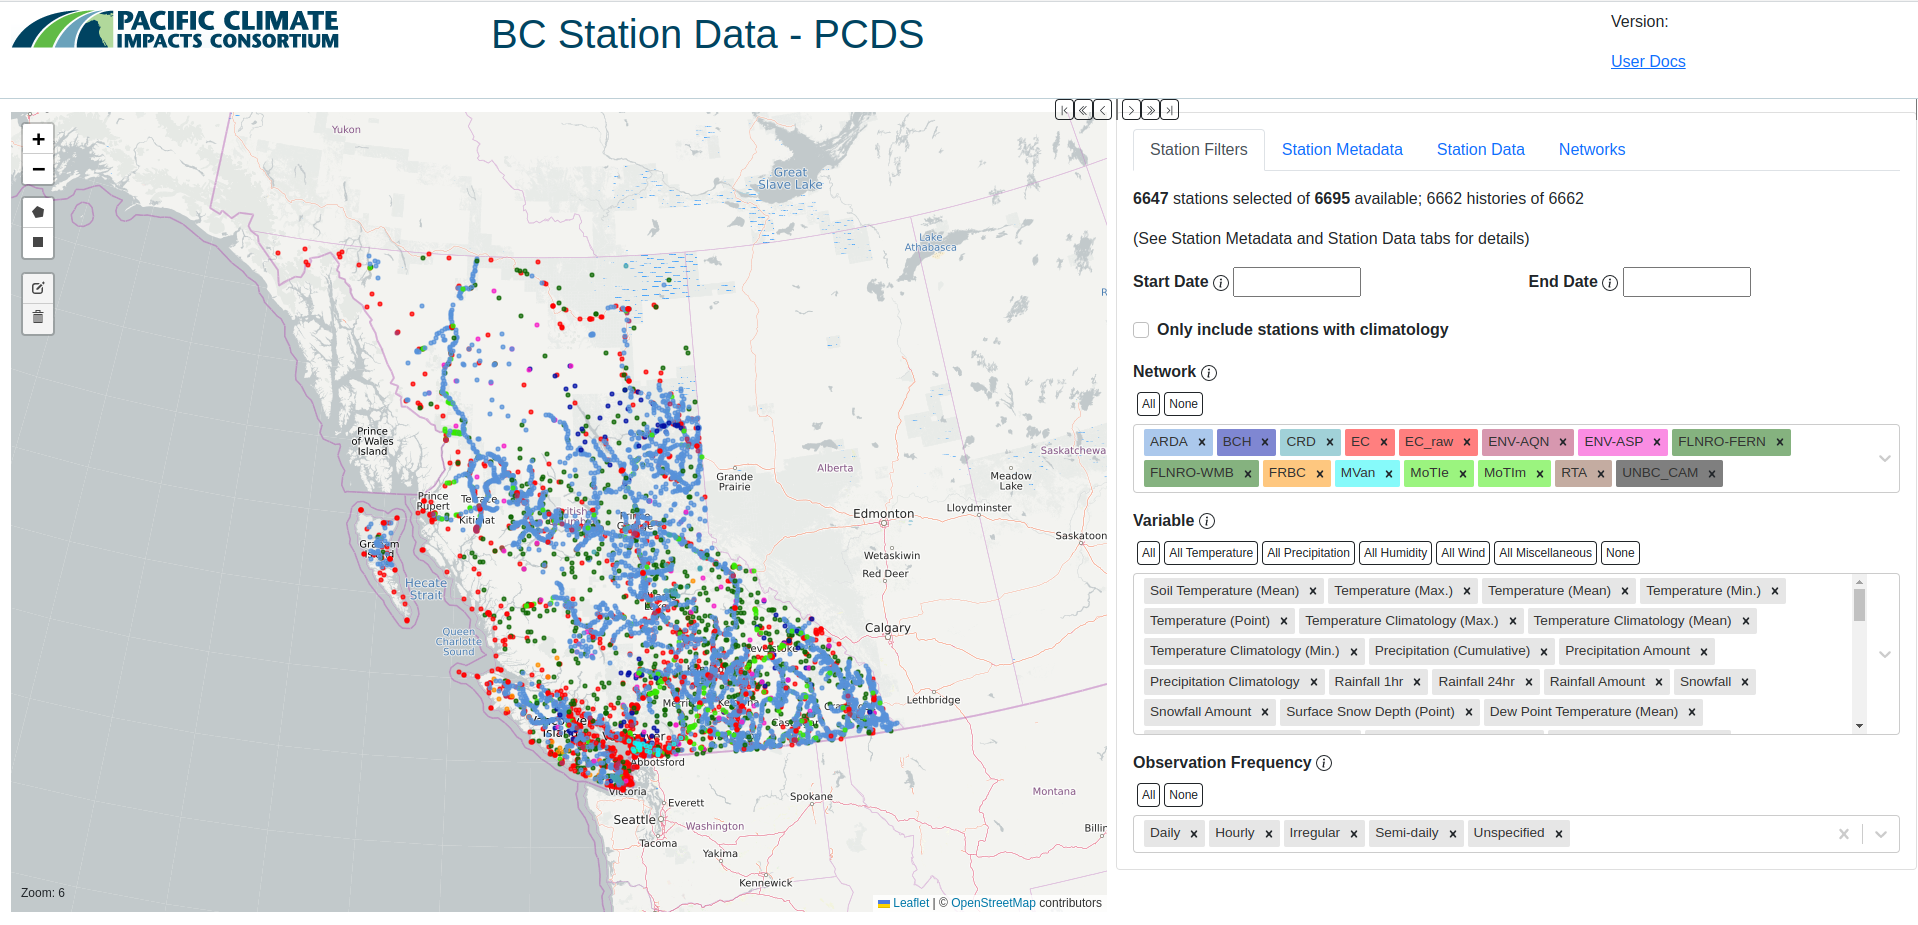
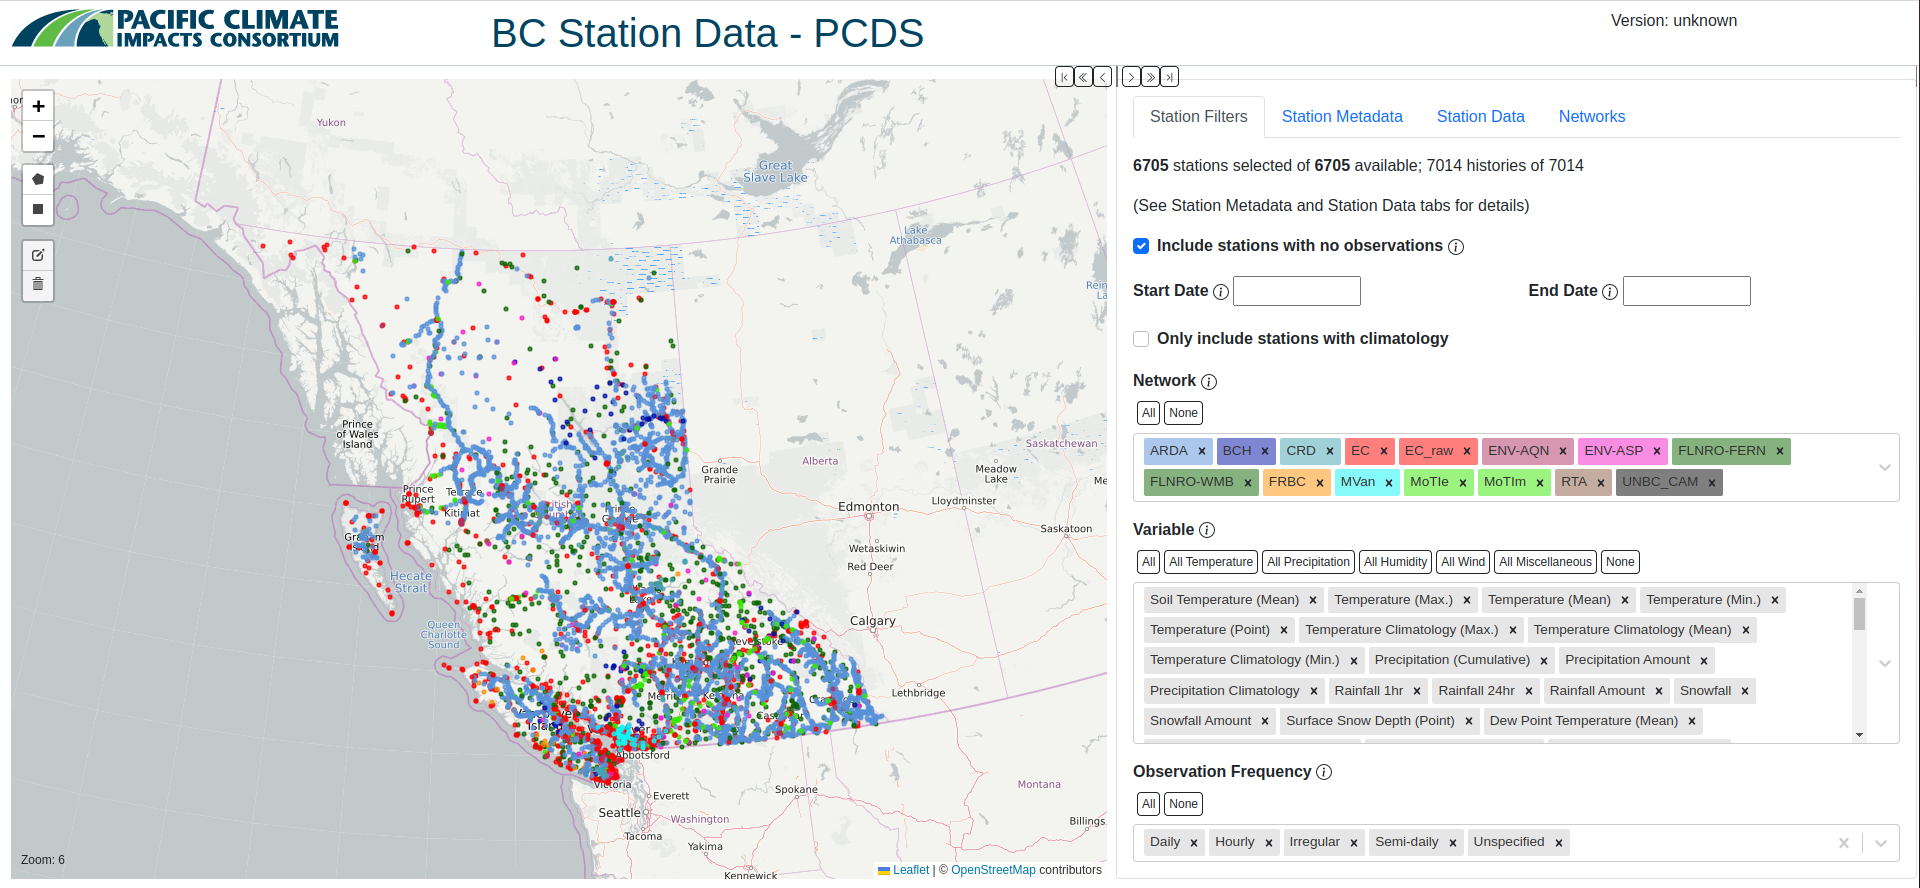
Update user doc

diff --git a/docs/user/root.rst b/docs/user/root.rst
@@ -34,9 +34,15 @@ before it can be used to access data. Click the **Accept** button to
 accept the terms of use and enter the app proper.
 
 The MDP’s first action is to fetch data describing all stations in its
-region database. This may take a few seconds. During this time, the map
-shows only the background base map. When all the descriptive data
-(metadata) has loaded, the map shows markers for each station.
+region database. This may take several seconds. During this time, the map
+shows a spinner and some of the selectors show "Loading...".
+When all the descriptive data (metadata) has loaded, the map shows markers
+for each station and the selectors are populated.
+
+.. figure:: ./images/map-spinner.png
+
+   *Map-updating spinner*
+
 
 In-app info and help
 ^^^^^^^^^^^^^^^^^^^^
@@ -66,8 +72,8 @@ details.
 Finding and selecting stations
 ^^^^^^^^^^^^^^^^^^^^^^^^^^^^^^
 
-You find and select stations by using a combination of station filtering
-options and spatial selection tools on the map.
+You find and select stations using a combination of station filtering
+options in the sidebar and spatial selection tools on the map.
 
 The map is the primary display of the stations you have selected. It
 typically takes up much of the screen real estate, which it shares with
@@ -77,7 +83,7 @@ column width controls at the top of the display.
 
 .. figure:: ./images/column-width-controls.png
 
-   Column width controls
+   *Column width controls*
 
 The main display area is divided into two columns, whose width can be
 adjusted in increments of 1/12 of the window width.
@@ -87,7 +93,7 @@ adjusted in increments of 1/12 of the window width.
 -  To move the division two increments left or right, click the ``<<``
    or ``>>`` button.
 -  To move the division completely to the left or right, click the
-   ``!<`` or ``>!`` button.
+   ``|<`` or ``>|`` button.
 
 Finding and selecting stations on the map
 ~~~~~~~~~~~~~~~~~~~~~~~~~~~~~~~~~~~~~~~~~
@@ -105,7 +111,7 @@ Navigating the map
 
 .. figure:: ./images/map-zoom-controls.png
 
-   Zoom controls
+   *Zoom controls*
 
 **Zoom in**: Click the zoom in |zoom in| icon in the upper left, double-click on the map, or roll the mousewheel forward.
 
@@ -127,7 +133,7 @@ station inside any polygon is selected.
 
 .. figure:: ./images/map-drawing-controls.png
 
-    Drawing controls
+    *Drawing controls*
 
 |draw rectangle|   To draw a roughly rectangular polygon, click the
 **Draw a rectangle** tool icon. Click and drag the mouse pointer from
@@ -168,13 +174,19 @@ reported by the station, use the controls on **Station Filters** tab.
 
 .. figure:: ./images/station-filters-tab.png
 
-   **Station Filters** tab
+   **Station Filters** *tab*
 
 At the top of the **Station Filters** tab is a legend that shows the
-number of stations selected by these controls (and by the map polygons,
-see above) out of the total available.
+number of stations (and associated histories; see section Stations
+and Histories) selected by these controls and by the map polygons
+(see above) out of the total available.
 
 The following controls control the filtering of stations.
+
+**Include stations with no observations**: Some stations do not (yet)
+have observations associated with them. To select *only* stations
+having at least one observation, check the checkbox. To exclude them,
+uncheck the checkbox.
 
 **Start Date**, **End Date**: Select only stations with observations
 within this period. Either date may be unspecified, in which case it
@@ -221,7 +233,7 @@ an example:
 
 .. figure:: ./images/map-metadata-popup-shedin-creek.png
 
-   Metadata popup example
+   *Metadata popup example*
 
 To dismiss the popup, click the **X** in the upper right corner.
 
@@ -237,24 +249,27 @@ dynamic and responsive your changes to the station filters.
 
 .. figure:: ./images/station-metadata-tab.png
 
-   **Station Metadata** tab
+   **Station Metadata** *tab*
 
 The tab contains a datagrid that presents the metadata for all stations
 selected jointly by the station filters and the map polygons. As the
 filters or map polygons are updated, the contents of the datagrid change
 accordingly.
 
+The contents of this tab can appear quite crowded; to view it with more
+column width, use the column width controls at the top of the column.
+
 Station metadata can be viewed and downloaded in two formats: by history
 and by station. (For information on the distinction between station and
 history, see the section above.)
 
-The by-history format presents one history per datagrid row, repeating
+The **By History** format presents one history per datagrid row, repeating
 station information in each row as necessary. It is a less compact and
 readable format, but more easily mechanically processed, and it breaks
 out values such as latitude and longitude into separate columns. That is
 why it is the default format.
 
-The by-station format presents one station per datagrid row, and rolls
+The **By Station** format presents one station per datagrid row, and rolls
 up information from all histories for a station into a more compact and
 readable form. It is however less easily mechanically processed, and
 combines related values such as latitude and longitude into single
@@ -285,7 +300,7 @@ tab.
 
 .. figure:: ./images/station-data-tab.png
 
-   **Station Data** tab
+   **Station Data** *tab*
 
 This tab shows a count of the stations selected, and of the number of
 observations and climatologies available from those selected stations.
@@ -303,11 +318,12 @@ Networks
 ^^^^^^^^
 
 The **Networks** tab lists details of all networks, showing their colour
-coding on the map. It serves as a legend to the map.
+coding on the map and a count of the stations associated with them.
+It serves as a legend to the map.
 
 .. figure:: ./images/networks-tab.png
 
-   **Networks** tab
+   **Networks** *tab*
 
 Unexpected behaviour
 ^^^^^^^^^^^^^^^^^^^^
